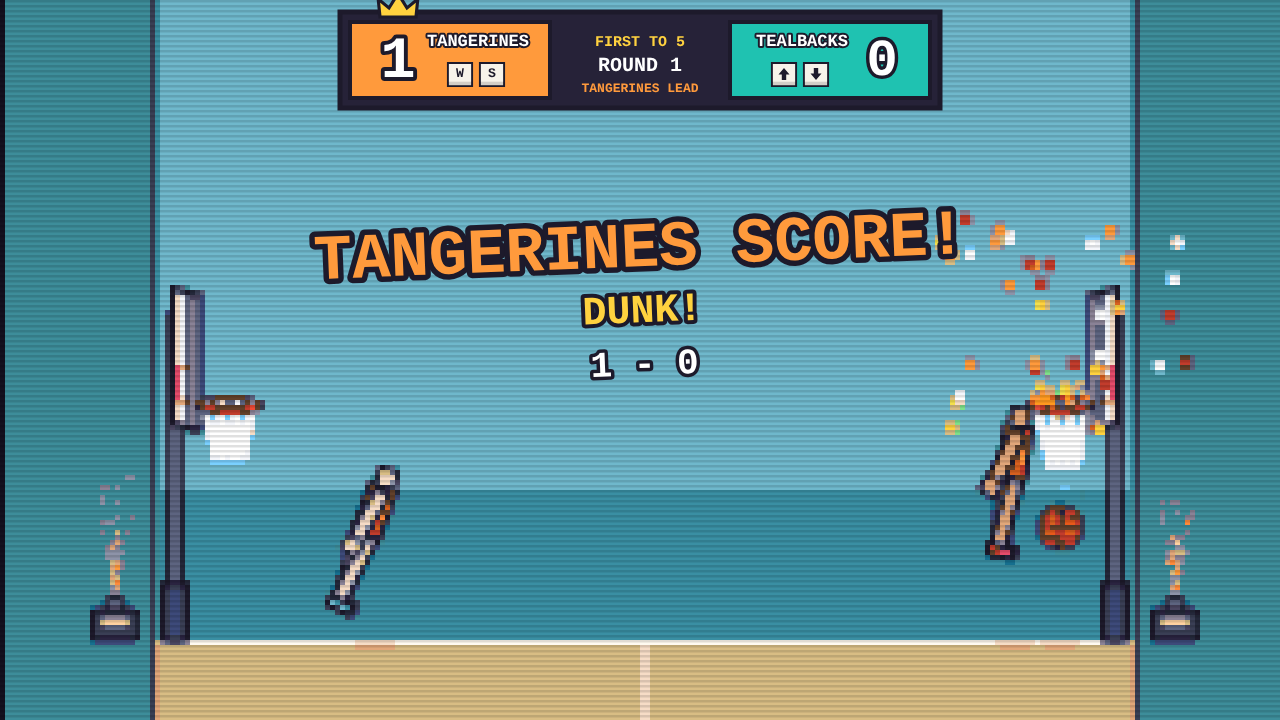
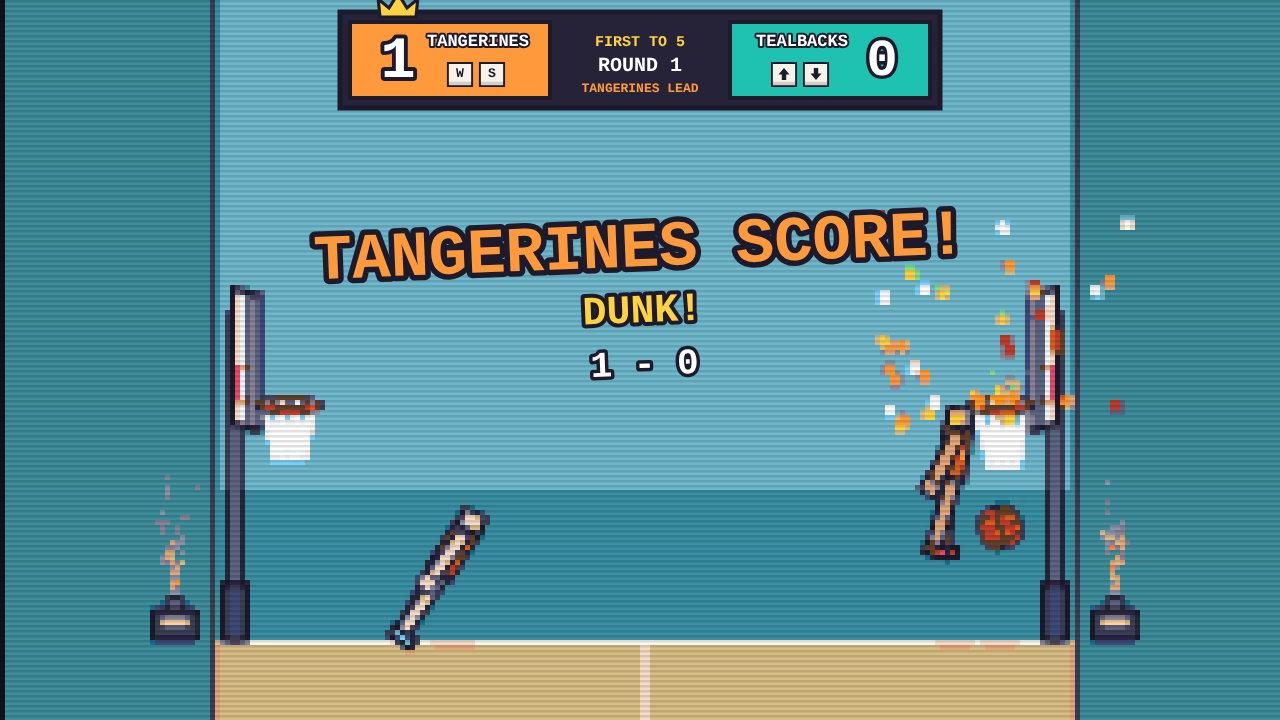
iteration 11: narrower court, wider heads, closer legs, bigger swing; teammate stays planted
Brief: design/game-brief.md

Also: players kept further apart so passes still reach on the narrower court.

Claude-Session: https://claude.ai/code/session_01JSgNr6WUAfnQ9VaCvmLX1X

diff --git a/prototypes/flop-hoops/config.js b/prototypes/flop-hoops/config.js
@@ -26,8 +26,8 @@ window.CONFIG = {
   jump_jitter: { value: 0.08, min: 0, max: 0.3, step: 0.01 },  // +- fraction of random jump strength
   jump_cooldown: { value: 0.32, min: 0.1, max: 1, step: 0.02 },// s between jumps while the key is held
   coyote_time: { value: 0.09, min: 0, max: 0.3, step: 0.01 },  // s after leaving ground a jump still counts
-  spread_distance: { value: 60, min: 0, max: 160, step: 2 },   // px apart below which players are eased apart
-  spread_push: { value: 0.35, min: 0, max: 2, step: 0.05 },    // px/step of that easing at zero distance
+  spread_distance: { value: 100, min: 0, max: 160, step: 2 },   // px apart below which players are eased apart
+  spread_push: { value: 0.5, min: 0, max: 2, step: 0.05 },    // px/step of that easing at zero distance
 
   // ---- Ball handling: grab, shoot, fadeaway, dunk, block ----
   regrab_delay: { value: 0.4, min: 0, max: 1.5, step: 0.05 },   // s before a player who let go can grab again
@@ -84,7 +84,7 @@ window.CONFIG = {
   gravity: { value: 1.0, min: 0.3, max: 2, step: 0.05 },       // Matter gravity.y
   upright: { value: 26, min: 0, max: 80, step: 1 },            // rad/s^2 per rad pulling the torso upright
   upright_air: { value: 0.35, min: 0, max: 1, step: 0.05 },    // share of the upright pull in the air
-  rock_angle: { value: 0.38, min: 0, max: 0.9, step: 0.01 },    // rad of the forward-and-back rock while planted
+  rock_angle: { value: 0.55, min: 0, max: 0.9, step: 0.01 },    // rad of the forward-and-back rock while planted
   rock_rate: { value: 0.75, min: 0.2, max: 3, step: 0.05 },      // rocks a second
   rock_follow: { value: 0.6, min: 0.05, max: 1, step: 0.05 },   // how tightly a planted body tracks its swing
   getup_time: { value: 0.7, min: 0.1, max: 3, step: 0.05 },     // s lying down before springing back up
@@ -94,6 +94,8 @@ window.CONFIG = {
   arm_width: { value: 15, min: 6, max: 30, step: 1 },           // px arm thickness
   head_size: { value: 10.7, min: 8, max: 30, step: 0.1 },           // px head half-size
   head_shape: { value: 8, min: 2, max: 12, step: 0.5 },         // head outline exponent: 2 round, 4 squircle, 8+ nearly square
+  head_extra_px: { value: 1, min: 0, max: 4, step: 1 },          // art pixels the head is wider than tall
+  leg_closer_px: { value: 1, min: 0, max: 3, step: 1 },          // art pixels the legs are pulled together
   arm_length: { value: 62, min: 40, max: 140, step: 2 },        // px shoulder to fingertip: an 82" wingspan less the shoulders, halved
   torso_length: { value: 53, min: 30, max: 90, step: 1 },       // px hip to shoulder (a 6 ft 4 in player at about 2 px per inch)
   leg_length: { value: 86, min: 40, max: 120, step: 1 },        // px floor to hip
@@ -119,7 +121,7 @@ window.CONFIG = {
   drop_height: { value: 430, min: 200, max: 520, step: 10 },   // px above the floor the ball drops from
 
   // ---- Court ----
-  court_width: { value: 980, min: 900, max: 1240, step: 10 }, // px
+  court_width: { value: 860, min: 700, max: 1240, step: 10 }, // px
   rim_height: { value: 235, min: 200, max: 420, step: 5 },     // px from floor to rim
   rim_span_min: { value: 40, min: 30, max: 160, step: 2 },     // px rim opening (grows with the ball)
   rim_ball_ratio: { value: 1.4, min: 1.05, max: 2, step: 0.05 }, // rim opening as a multiple of the ball's width: 1.4 balls fit

diff --git a/prototypes/flop-hoops/js/physics.js b/prototypes/flop-hoops/js/physics.js
@@ -48,6 +48,8 @@ const Physics = (() => {
       legL: T.leg_length * S.leg, legW: T.limb_width, armL: T.arm_length * S.arm, armW: T.arm_width,
     };
     d.headS = d.headR * 1.8;   // squircle head, side length
+    d.headW = d.headS + T.pixel_size * T.head_extra_px;   // a little wider than tall, in whole art pixels
+    d.hipX = d.torsoW * 0.22 - T.pixel_size * T.leg_closer_px / 2;   // legs pulled together by whole art pixels
     const hipY = FLOOR_Y - d.legL + 3;
     const torsoY = hipY - d.torsoH / 2 + 6;
     const torsoTop = torsoY - d.torsoH / 2;
@@ -57,9 +59,9 @@ const Physics = (() => {
     const filt = { group, category: TEAM_CAT[team], mask: CAT.STATIC | CAT.BALL | TEAM_CAT[1 - team] };
     const torso = Bodies.rectangle(x, torsoY, d.torsoW, d.torsoH, { chamfer: { radius: d.torsoW * 0.3 },
       density: 0.0036, friction: 0.5, frictionAir: 0.012, restitution: 0.1, collisionFilter: filt });
-    const head = Bodies.rectangle(x, headY, d.headS, d.headS, { chamfer: { radius: d.headS * 0.12 },
+    const head = Bodies.rectangle(x, headY, d.headW, d.headS, { chamfer: { radius: d.headS * 0.12 },
       density: 0.0011, friction: 0.3, frictionAir: 0.01, restitution: 0.3, collisionFilter: filt });
-    const legs = [-1, 1].map(s => Bodies.rectangle(x + s * d.torsoW * 0.22, hipY + d.legL / 2 - 4, d.legW, d.legL, {
+    const legs = [-1, 1].map(s => Bodies.rectangle(x + s * d.hipX, hipY + d.legL / 2 - 4, d.legW, d.legL, {
       chamfer: { radius: 3 }, density: 0.003, friction: 1.4, frictionStatic: 2, frictionAir: 0.012, restitution: 0, collisionFilter: filt }));
     const arm = Bodies.rectangle(x, shoulderY + d.armL / 2 - 5, d.armW, d.armL, { chamfer: { radius: 3 },
       density: 0.0024, friction: 0.4, frictionAir: 0.01, restitution: 0.2, collisionFilter: filt });
@@ -70,7 +72,7 @@ const Physics = (() => {
       prevHeld: false, boosting: false, dribbleT: 0 };
     tag(torso, 'torso', p); tag(head, 'head', p); legs.forEach(l => tag(l, 'leg', p)); tag(arm, 'arm', p);
 
-    const hx = d.torsoW * 0.22;
+    const hx = d.hipX;
     p.joints = [
       Constraint.create({ bodyA: torso, pointA: { x: 0, y: -d.torsoH / 2 - d.headS * 0.42 }, bodyB: head,
         pointB: { x: 0, y: 0 }, length: 0, stiffness: 0.7, damping: 0.05 }),
@@ -595,7 +597,9 @@ const Physics = (() => {
     w.bheld = bheld;
     if (w.ghostUntil && w.time >= w.ghostUntil) { w.ghostUntil = 0; if (!w.dunk) w.ball.collisionFilter.mask = 0x1 | 0x2 | 0x4; }
     for (const b of w.dynamic) { b._px = b.position.x; b._py = b.position.y; b._pa = b.angle; }
-    for (const p of w.players) drive(w, p, held[p.team], T, dt);
+    // while a team has the ball, its key belongs to the carrier: the teammate stays planted
+    const busy = q => (w.hold && w.hold.p.team === q.team && w.hold.p !== q) || (w.dunk && w.dunk.p.team === q.team && w.dunk.p !== q);
+    for (const p of w.players) drive(w, p, busy(p) ? false : held[p.team], T, dt);
     spread(w, T);
     w.kicks.length = 0;
     Engine.update(w.engine, DELTA);

diff --git a/prototypes/flop-hoops/js/render.js b/prototypes/flop-hoops/js/render.js
@@ -131,6 +131,7 @@ const Render = (() => {
     ctx.restore();
 
     ctx.save(); ctx.translate(Hd.x, Hd.y); ctx.rotate(T.a * 0.7);
+    ctx.scale(d.headW / d.headS, 1);   // the head's extra width
     squirclePath(ctx, d.headS / 2, CONFIG.head_shape.value); ink(ctx, look.skin, 5);
     ctx.restore();
 

diff --git a/design/game-brief.md b/design/game-brief.md
@@ -36,6 +36,8 @@ After play: make the dunk animation smoother and add a crowd cheer. thicken the 
 
 After play: make the sparks be reddish and orangish. the ball should bounce more on the ground, but bounce the same amount on the brim.
 
+After play: make the court less wide, and the character heads one pixel wider, make the legs one pixel closer to one another, largen the wobbling, to allow for horizontal movement for the player. when the jump key is being held to make the character shoot, the teammate shouldn't be jumping, they should be staying in place.
+
 **Pitch:** Two wobbly ragdoll ballers a side, one jump key each, swinging on their feet and hurling a squircle ball.
 
 **Genre:** arcade sports (floppy physics sport)
@@ -49,7 +51,7 @@ After play: make the sparks be reddish and orangish. the ball should bounce more
 **Intent:** needs 2 players *(you said)*
 
 ## Look and references
-- Look: really retro: the court drawn at low resolution, snapped to each round's small palette and scaled up under scanlines, with a monospace square-cornered HUD; flat plain backgrounds (sky, one horizon band, floor, centre line); slim faceless characters built like a 6 ft 4 in player with a +4 in wingspan (long legs, small squircle heads, small hands, plain shirts); a rounded ball with a white trail when fired (rainbow on a perfect line); a smaller ball; hoops whose rim fits 1.4 balls, with a taller backboard and deeper net, 10 ft high on a narrower court; everything chunkier (5 px art pixels, square-cornered outlines, near-square heads, thicker bodies); thick dark outlines; tangerine vs teal teams; a bright orange seamed ball; each round a new venue (school gym, dusk rooftop, beach, night street court) in its own two-tone palette, background darker and calmer than play; signature: the rainbow trail of a perfectly lined-up shot. Every figure drawn, no emoji, no plain circles. *(inferred (strong))*
+- Look: really retro: the court drawn at low resolution, snapped to each round's small palette and scaled up under scanlines, with a monospace square-cornered HUD; flat plain backgrounds (sky, one horizon band, floor, centre line); slim faceless characters built like a 6 ft 4 in player with a +4 in wingspan (long legs, small squircle heads, small hands, plain shirts); a rounded ball with a white trail when fired (rainbow on a perfect line); a smaller ball; hoops whose rim fits 1.4 balls, with a taller backboard and deeper net, 10 ft high on a narrower court (860 px); everything chunkier (5 px art pixels, square-cornered outlines, near-square heads, thicker bodies); thick dark outlines; tangerine vs teal teams; a bright orange seamed ball; each round a new venue (school gym, dusk rooftop, beach, night street court) in its own two-tone palette, background darker and calmer than play; signature: the rainbow trail of a perfectly lined-up shot. Every figure drawn, no emoji, no plain circles. *(inferred (strong))*
 - References: the floppy one-button basketball genre (Basket Random and others) for its feel only: one-key jumps, ragdoll chaos, random rounds.
 - View: 2D side view · Camera: static, whole court visible, scaled to the window.
 
@@ -80,7 +82,8 @@ Every touch is contested from second one: the skill is timing your hop against t
 - [x] Jump height follows how long the key is held
 - [x] Blocks and steals by defenders; a shot taken drifting or leaning away is called a fadeaway (same arc)
 - [x] Only opponents collide; teammates pass through each other
-- [x] Planted players pivot on their feet, swinging evenly forward and back at a beat that never fades; fallen players get back up
+- [x] Planted players pivot on their feet, swinging evenly forward and back (±0.55 rad) at a beat that never fades, so a well-timed hop carries them far; fallen players get back up
+- [x] While a team has the ball, its key moves only the carrier: the teammate stays planted
 - [x] Shots: one arc per cock-back and spot (forward 3.5-14, up 11-13, 1 s cock-back); lean, drift and momentum change nothing; strong aim help toward the rim's centre
 - [x] Bounce key: hold to wind up, let go to bounce the ball forward as a pass; a pass slips through opponents for 0.3 s and they cannot catch it for 0.6 s
 - [x] Dribble: tapping the bounce key bounces the ball at the feet while the player slides forward; each tap in a row adds sway and bounce error until the ball gets away (about 14 taps)

diff --git a/prototypes/flop-hoops/brief.md b/prototypes/flop-hoops/brief.md
@@ -36,6 +36,8 @@ After play: make the dunk animation smoother and add a crowd cheer. thicken the 
 
 After play: make the sparks be reddish and orangish. the ball should bounce more on the ground, but bounce the same amount on the brim.
 
+After play: make the court less wide, and the character heads one pixel wider, make the legs one pixel closer to one another, largen the wobbling, to allow for horizontal movement for the player. when the jump key is being held to make the character shoot, the teammate shouldn't be jumping, they should be staying in place.
+
 **Pitch:** Two wobbly ragdoll ballers a side, one jump key each, swinging on their feet and hurling a squircle ball.
 
 **Genre:** arcade sports (floppy physics sport)
@@ -49,7 +51,7 @@ After play: make the sparks be reddish and orangish. the ball should bounce more
 **Intent:** needs 2 players *(you said)*
 
 ## Look and references
-- Look: really retro: the court drawn at low resolution, snapped to each round's small palette and scaled up under scanlines, with a monospace square-cornered HUD; flat plain backgrounds (sky, one horizon band, floor, centre line); slim faceless characters built like a 6 ft 4 in player with a +4 in wingspan (long legs, small squircle heads, small hands, plain shirts); a rounded ball with a white trail when fired (rainbow on a perfect line); a smaller ball; hoops whose rim fits 1.4 balls, with a taller backboard and deeper net, 10 ft high on a narrower court; everything chunkier (5 px art pixels, square-cornered outlines, near-square heads, thicker bodies); thick dark outlines; tangerine vs teal teams; a bright orange seamed ball; each round a new venue (school gym, dusk rooftop, beach, night street court) in its own two-tone palette, background darker and calmer than play; signature: the rainbow trail of a perfectly lined-up shot. Every figure drawn, no emoji, no plain circles. *(inferred (strong))*
+- Look: really retro: the court drawn at low resolution, snapped to each round's small palette and scaled up under scanlines, with a monospace square-cornered HUD; flat plain backgrounds (sky, one horizon band, floor, centre line); slim faceless characters built like a 6 ft 4 in player with a +4 in wingspan (long legs, small squircle heads, small hands, plain shirts); a rounded ball with a white trail when fired (rainbow on a perfect line); a smaller ball; hoops whose rim fits 1.4 balls, with a taller backboard and deeper net, 10 ft high on a narrower court (860 px); everything chunkier (5 px art pixels, square-cornered outlines, near-square heads, thicker bodies); thick dark outlines; tangerine vs teal teams; a bright orange seamed ball; each round a new venue (school gym, dusk rooftop, beach, night street court) in its own two-tone palette, background darker and calmer than play; signature: the rainbow trail of a perfectly lined-up shot. Every figure drawn, no emoji, no plain circles. *(inferred (strong))*
 - References: the floppy one-button basketball genre (Basket Random and others) for its feel only: one-key jumps, ragdoll chaos, random rounds.
 - View: 2D side view · Camera: static, whole court visible, scaled to the window.
 
@@ -80,7 +82,8 @@ Every touch is contested from second one: the skill is timing your hop against t
 - [x] Jump height follows how long the key is held
 - [x] Blocks and steals by defenders; a shot taken drifting or leaning away is called a fadeaway (same arc)
 - [x] Only opponents collide; teammates pass through each other
-- [x] Planted players pivot on their feet, swinging evenly forward and back at a beat that never fades; fallen players get back up
+- [x] Planted players pivot on their feet, swinging evenly forward and back (±0.55 rad) at a beat that never fades, so a well-timed hop carries them far; fallen players get back up
+- [x] While a team has the ball, its key moves only the carrier: the teammate stays planted
 - [x] Shots: one arc per cock-back and spot (forward 3.5-14, up 11-13, 1 s cock-back); lean, drift and momentum change nothing; strong aim help toward the rim's centre
 - [x] Bounce key: hold to wind up, let go to bounce the ball forward as a pass; a pass slips through opponents for 0.3 s and they cannot catch it for 0.6 s
 - [x] Dribble: tapping the bounce key bounces the ball at the feet while the player slides forward; each tap in a row adds sway and bounce error until the ball gets away (about 14 taps)
